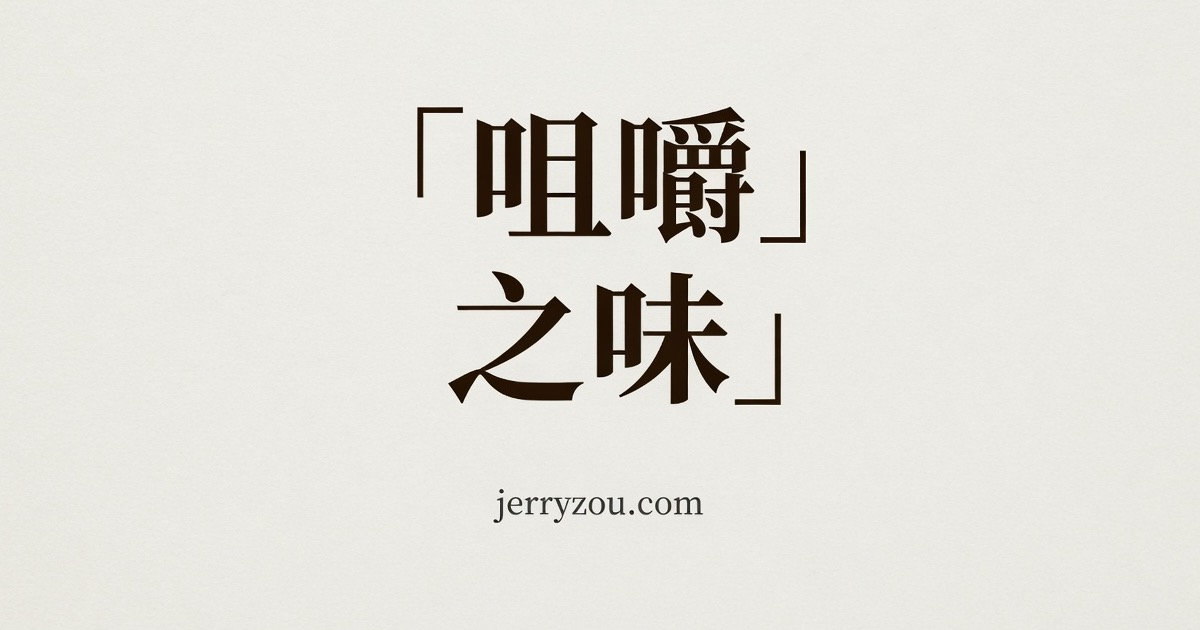
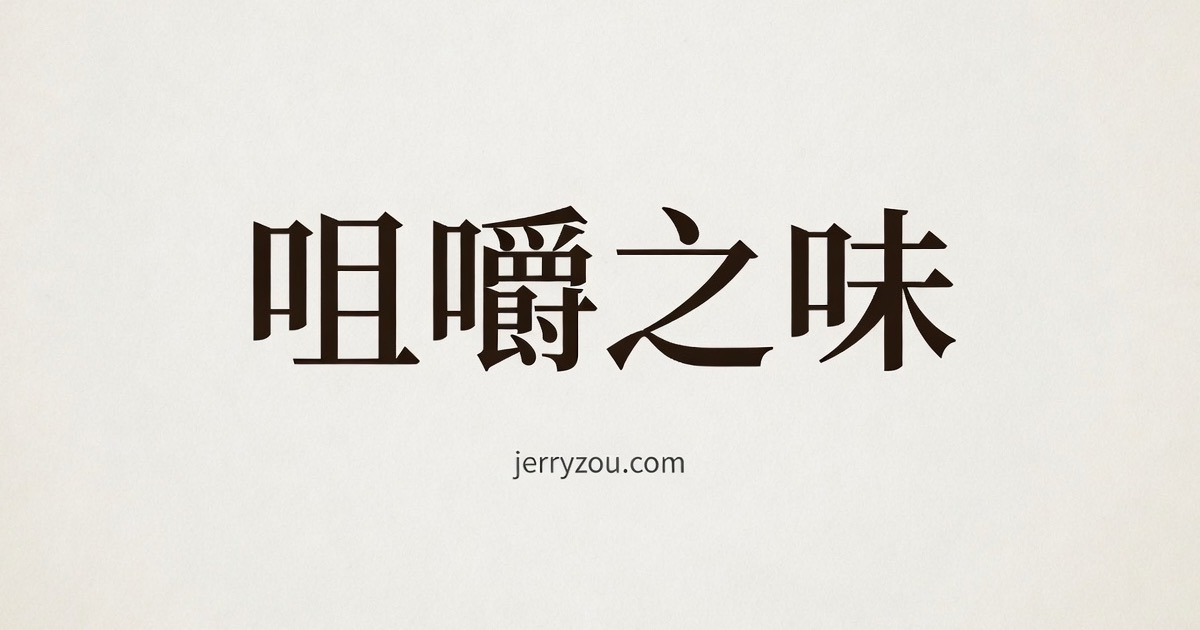
feat: fix share image and add WeChat JS-SDK signing
Replace the extra closing bracket on the default OG card.
Sign WeChat share config from a Pages Function; the client
only loads jweixin inside WeChat and falls back to og tags
when secrets are missing.

diff --git a/astro/functions/api/wechat-jssdk.js b/astro/functions/api/wechat-jssdk.js
@@ -1,0 +1,129 @@
+const TOKEN_TTL = 7000;
+
+function json(body, status = 200) {
+  return Response.json(body, {
+    status,
+    headers: { "Cache-Control": "no-store" },
+  });
+}
+
+function allowedShareUrl(raw, requestHost) {
+  let url;
+  try {
+    url = new URL(raw);
+  } catch {
+    return null;
+  }
+  if (url.hash) url.hash = "";
+  const host = url.hostname;
+  const okHost =
+    host === requestHost ||
+    host === "jerryzou.com" ||
+    host === "www.jerryzou.com" ||
+    host === "heaven-blog-next.pages.dev" ||
+    host.endsWith(".heaven-blog-next.pages.dev") ||
+    host === "localhost" ||
+    host === "127.0.0.1";
+  if (!okHost) return null;
+  if (
+    url.protocol !== "https:" &&
+    host !== "localhost" &&
+    host !== "127.0.0.1"
+  ) {
+    return null;
+  }
+  return url.href;
+}
+
+async function sha1(text) {
+  const bytes = await crypto.subtle.digest(
+    "SHA-1",
+    new TextEncoder().encode(text),
+  );
+  return [...new Uint8Array(bytes)]
+    .map((byte) => byte.toString(16).padStart(2, "0"))
+    .join("");
+}
+
+async function cachedJson(cache, keyUrl) {
+  const hit = await cache.match(keyUrl);
+  if (!hit) return null;
+  return hit.json();
+}
+
+async function putCache(cache, keyUrl, data, ctx) {
+  const response = new Response(JSON.stringify(data), {
+    headers: {
+      "Content-Type": "application/json",
+      "Cache-Control": `public, max-age=${TOKEN_TTL}`,
+    },
+  });
+  ctx.waitUntil(cache.put(keyUrl, response.clone()));
+}
+
+async function wechatJson(url) {
+  const response = await fetch(url);
+  const data = await response.json();
+  if (data.errcode) {
+    throw new Error(`${data.errcode}: ${data.errmsg || "wechat api error"}`);
+  }
+  return data;
+}
+
+async function getTicket(env, ctx) {
+  const cache = caches.default;
+  const ticketKey = new Request("https://wechat-cache.internal/jsapi-ticket");
+  const cached = await cachedJson(cache, ticketKey);
+  if (cached?.ticket) return cached.ticket;
+
+  const tokenKey = new Request("https://wechat-cache.internal/access-token");
+  let token = (await cachedJson(cache, tokenKey))?.access_token;
+  if (!token) {
+    const tokenData = await wechatJson(
+      `https://api.weixin.qq.com/cgi-bin/token?grant_type=client_credential&appid=${encodeURIComponent(env.WECHAT_APP_ID)}&secret=${encodeURIComponent(env.WECHAT_APP_SECRET)}`,
+    );
+    token = tokenData.access_token;
+    await putCache(cache, tokenKey, { access_token: token }, ctx);
+  }
+
+  const ticketData = await wechatJson(
+    `https://api.weixin.qq.com/cgi-bin/ticket/getticket?access_token=${encodeURIComponent(token)}&type=jsapi`,
+  );
+  await putCache(cache, ticketKey, { ticket: ticketData.ticket }, ctx);
+  return ticketData.ticket;
+}
+
+export async function onRequestGet(ctx) {
+  const appId = ctx.env.WECHAT_APP_ID;
+  const secret = ctx.env.WECHAT_APP_SECRET;
+  if (!appId || !secret) {
+    return json({ enabled: false }, 501);
+  }
+
+  const requestUrl = new URL(ctx.request.url);
+  const pageUrl = allowedShareUrl(
+    requestUrl.searchParams.get("url") || "",
+    new URL(ctx.request.url).hostname,
+  );
+  if (!pageUrl) {
+    return json({ enabled: false, error: "invalid url" }, 400);
+  }
+
+  try {
+    const timestamp = Math.floor(Date.now() / 1000).toString();
+    const nonceStr = crypto.randomUUID().replaceAll("-", "");
+    const ticket = await getTicket(ctx.env, ctx);
+    const signature = await sha1(
+      `jsapi_ticket=${ticket}&noncestr=${nonceStr}&timestamp=${timestamp}&url=${pageUrl}`,
+    );
+    return json({
+      enabled: true,
+      appId,
+      timestamp,
+      nonceStr,
+      signature,
+    });
+  } catch {
+    return json({ enabled: false, error: "sign failed" }, 502);
+  }
+}

diff --git a/docs/seo-and-sharing.md b/docs/seo-and-sharing.md
@@ -24,9 +24,11 @@
 分两类能力，不能混为一谈：
 
 1. **普通链接抓取**：依赖公开 HTML 里的 title、description、og 标签。本站已输出这些字段，微信会不会采用由客户端决定。
-2. **JS-SDK 自定义分享**：需要已认证公众号、JS 接口安全域名，以及服务端签名。当前静态站点不具备这些条件，因此不接入 JS-SDK，也不承诺能完全控制微信内分享卡片。
+2. **JS-SDK 自定义分享**：页面在微信 UA 下会请求 `/api/wechat-jssdk`，用签名调用 `updateAppMessageShareData` / `updateTimelineShareData`。签名密钥放在 Cloudflare Pages 的 `WECHAT_APP_ID`、`WECHAT_APP_SECRET`，不进仓库。密钥未配置时接口返回 501，页面静默回退到 og 标签。
 
-回退展示就是页面上的标题、摘要和 og 图。无法控制的行为包括：微信缓存旧卡片、用正文首图覆盖 og 图、在聊天里截断标题。
+JS 接口安全域名必须 ICP 备案。`heaven-blog-next.pages.dev` 过不了这项校验，所以预览站上的 JS-SDK 在真机微信里不会生效。不必等切域名才能合代码；要在微信里验证自定义卡片，需要站点已经用 `jerryzou.com` 打开，并在公众号后台填入该域名。未认证订阅号通常没有自定义分享权限。
+
+无法控制的行为包括：微信缓存旧卡片、用正文首图覆盖 og 图、在聊天里截断标题。
 
 ## 站点地图与 RSS
 
